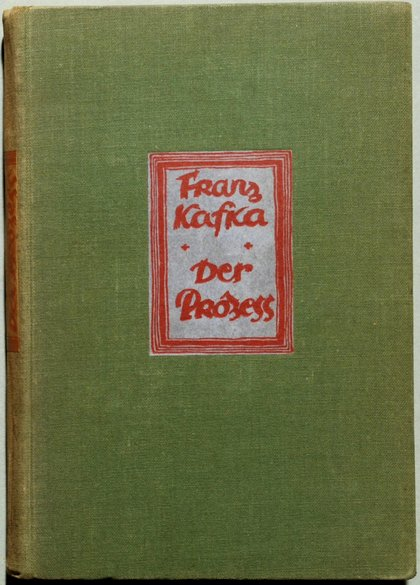
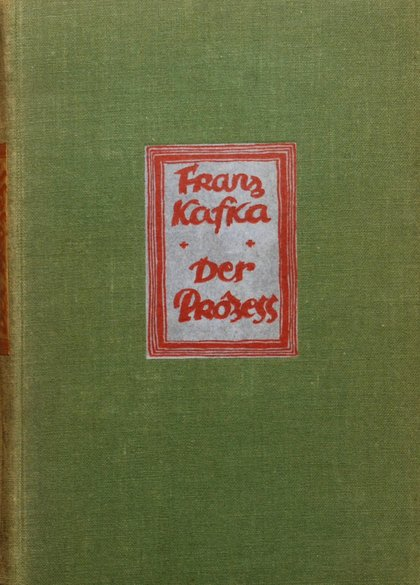
fix(art)+qa: blind A/B round-1 repairs — ink wins the cascade, real Tagore hand
Round 1 verdict was split (designer→baseline on a hierarchy regression;
art-director→candidate conditional), so the candidate failed the pre-set
pass rule. Every finding traced and repaired:

- Slip labels rendered EMPTY: pre-R10 state classes (and the late-declared
  work base rule) still painted light-on-dark text tones over the new paper
  chips, winning the cascade. All slip genres now resolve to ink; hover/
  selected modulate weight and a vermilion underline (new --slip-ink-strong /
  --vermilion tokens keep the token lint green).
- Selected-center stack: the collector's slip drops below the 감상인 frame
  into the dial's empty lower interior; the halo disc is silenced for the
  selected mark-bearer.
- Tagore's mark was an illegible traced scribble: rebuilt from the real 1920
  Bengali ink signature scan (Commons, PD) — bold, authentic strokes.
- Cover scans shaved 2.5%/side: catalog borders read as loose polaroids.

Protocol + round-1 verdicts recorded in art-r10/ab-review-protocol.md.

Changed region(s): [[0.0, 0.0, 1.0, 1.0], [0.3405, 0.2154, 0.7119, 0.6154]]

diff --git a/src/styles.css b/src/styles.css
@@ -52,7 +52,9 @@
   /* R10 paper-planet: letterpress label slips + album mounts */
   --slip-bg: rgba(233, 223, 196, 0.92);
   --slip-ink: #2b2015;
+  --slip-ink-strong: #140e08;
   --slip-line: rgba(43, 32, 21, 0.4);
+  --vermilion: #c0392e; /* 감상인 — the selection channel's only user */
   --mount-shadow: rgba(0, 0, 0, 0.5);
   --debug-bg: rgba(10, 15, 18, 0.92);
   --debug-dim: #7d8a86;
@@ -668,6 +670,45 @@ a:hover {
   opacity: 0.62;
 }
 
+/* Slip-genre state colors (blind A/B round 1 finding): the pre-R10 state
+   classes painted light-on-dark text tones, which on paper chips rendered
+   as EMPTY slips — neighbors were literally blank beside their seals. On a
+   slip, state modulates ink weight and chip presence, never ink-to-light.
+   Same class pairs, declared later, so the cascade lands on ink. */
+.globe-label--author.is-normal,
+.globe-label--relation {
+  color: var(--slip-ink);
+}
+
+.globe-label--author.is-dim {
+  color: var(--slip-ink);
+}
+
+.globe-label--author.is-neighbor {
+  color: var(--slip-ink);
+  font-weight: 600;
+}
+
+.globe-label--author.is-hovered {
+  color: var(--slip-ink-strong);
+  font-weight: 600;
+  border-color: var(--slip-ink);
+}
+
+.globe-label--author.is-selected,
+.globe-label--work.is-selected {
+  color: var(--slip-ink);
+  font-weight: 700;
+  text-shadow: none;
+  border-bottom: 2px solid var(--vermilion);
+}
+
+.globe-label--work.is-interactive:hover,
+.globe-label--work.is-interactive:focus-visible {
+  color: var(--slip-ink-strong);
+  text-shadow: none;
+}
+
 /* R10 archival portrait mount: the photograph is pasted into the album */
 .portrait-plate--archival .portrait-mount {
   position: relative;
@@ -825,7 +866,9 @@ a:hover {
   font-style: italic;
   font-size: 13px; /* was 11.5 — floor */
   letter-spacing: 0.04em;
-  color: var(--text-dim);
+  /* slip ink, declared HERE: this base rule sits after the R10 slip block,
+     so an ink override there silently loses the cascade (A/B round 1 bis) */
+  color: var(--slip-ink);
   opacity: 0.9;
 }
 
